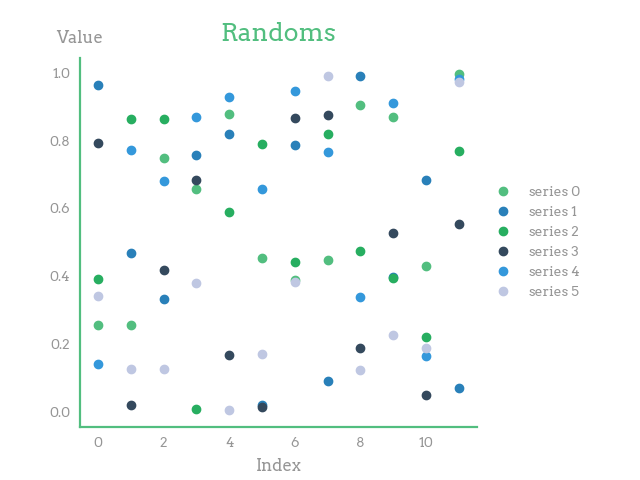
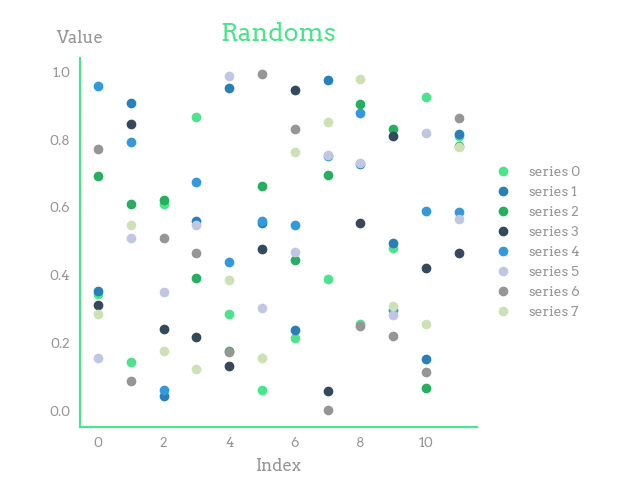
adding more colors

diff --git a/rootsstyle/__main__.py b/rootsstyle/__main__.py
@@ -10,13 +10,14 @@ import matplotlib.pyplot as plt
 import matplotlib.font_manager as fm
 
 colors = {
-    "green_light": "#52BE7F",
+    "green_light": "#4CE38C",
     "green_dark": "#27AE60",
     "blue_dark": "#2980B9",
     "blue_light": "#3498DB",
     "blue_navy": "#34495D",
     "gray": "#969696",
     "gray_light": "#bfc7e2",
+    "green_light+": "#CCE1B5",
 }
 
 _fonts_dir = Path(__file__).parent.parent.joinpath("fonts")
@@ -62,6 +63,8 @@ style = {
             colors["blue_navy"],
             colors["blue_light"],
             colors["gray_light"],
+            colors["gray"],
+            colors["green_light+"],
         ],
     ),
 }

diff --git a/tests/test_rootsstyle.py b/tests/test_rootsstyle.py
@@ -9,7 +9,8 @@ def test_version():
 
 
 def test_scatterplot():
-    nb_series, nb_dots = 6, 12
+    nb_series = len(rootsstyle.colors)
+    nb_dots = 100//nb_series
     with plt.style.context(rootsstyle.style):
         x = np.arange(start=0, stop=nb_dots, step=1)
         y = np.random.rand(nb_dots, nb_series)

diff --git a/rootsstyle/__init__.py b/rootsstyle/__init__.py
@@ -1,4 +1,4 @@
-from .__main__ import style, legend, legend_line, ylabel
+from .__main__ import style, colors, legend, legend_line, ylabel
 
 __version__ = "0.1.2"
-__all__ = ["style", "legend", "legend_line", "ylabel"]
+__all__ = ["style", "colors", "legend", "legend_line", "ylabel"]
